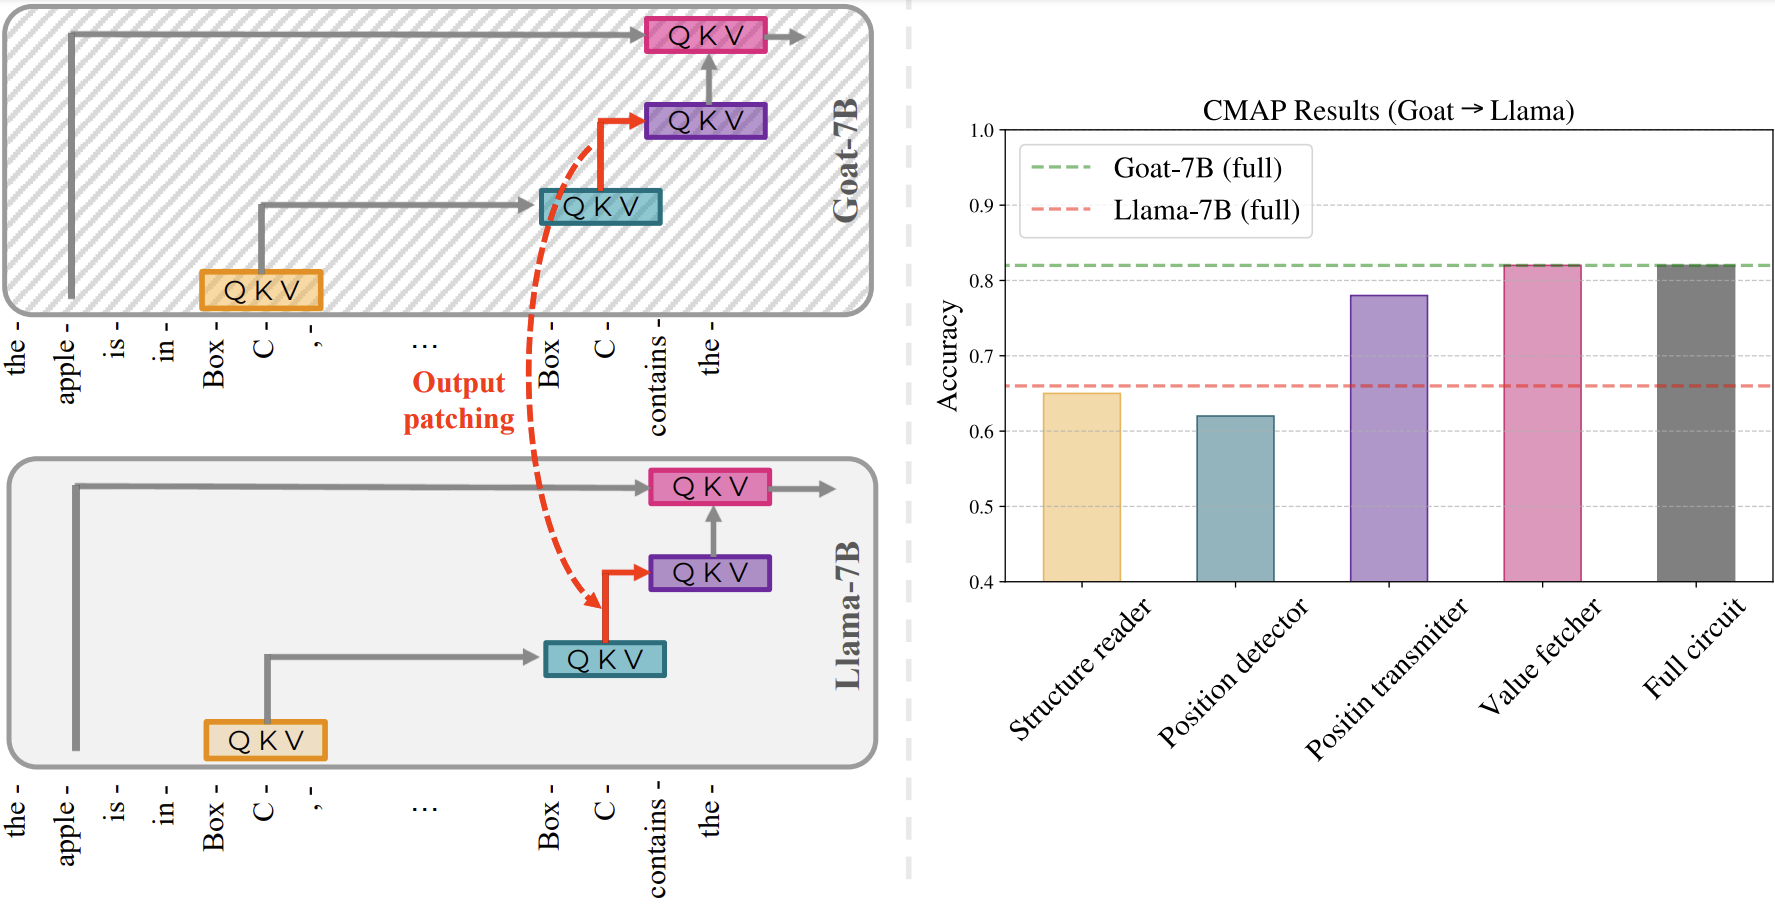
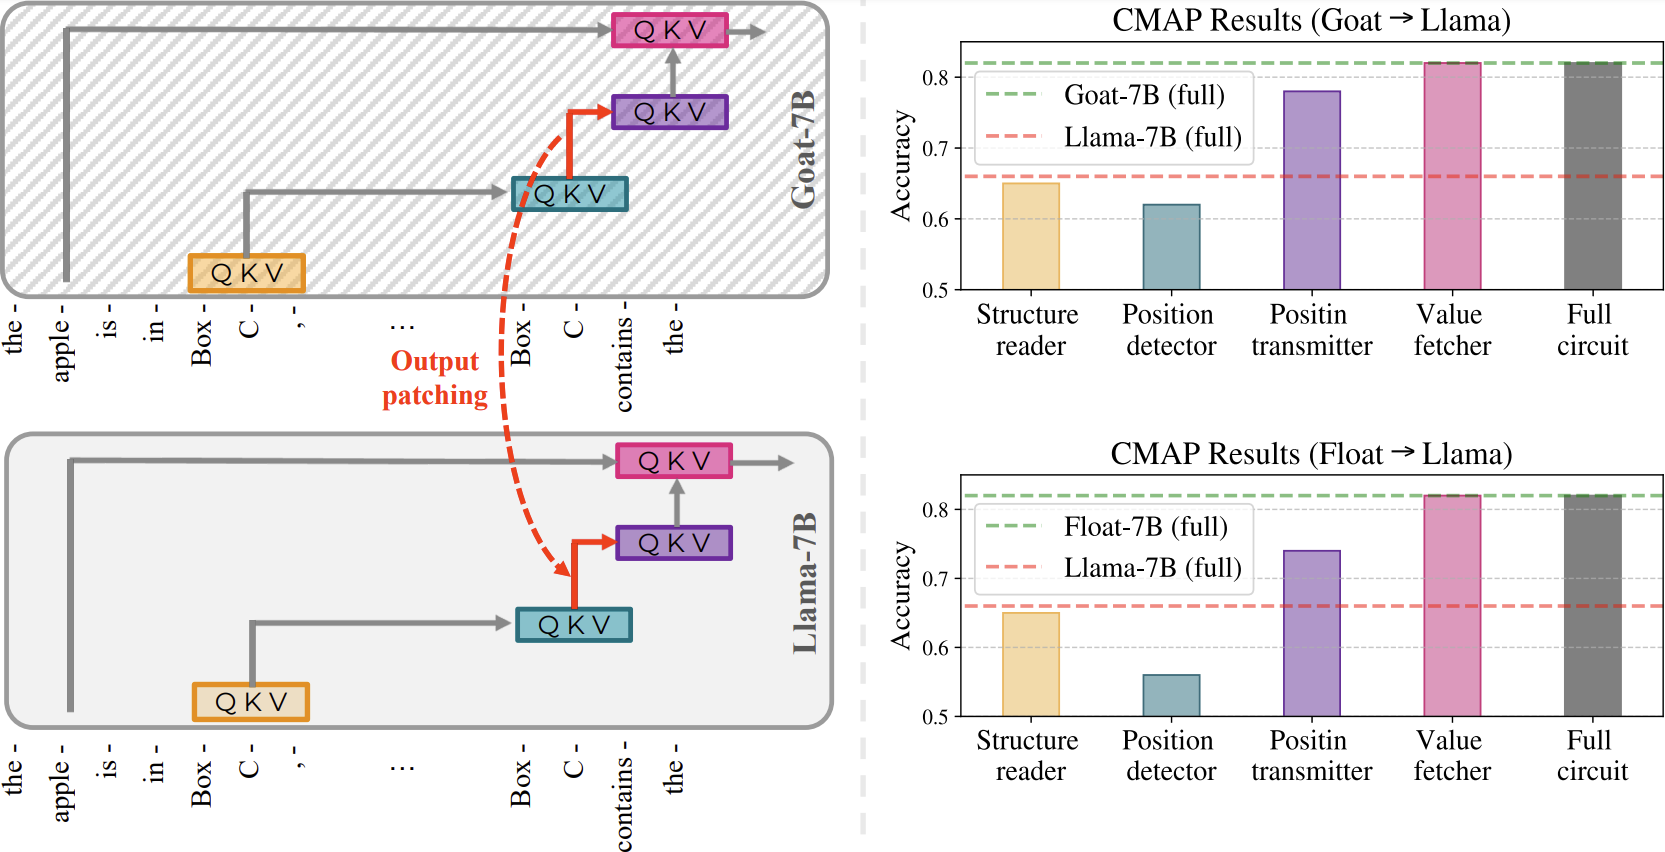
Updated content

Changed region(s): [[0.5309, 0.0, 0.9994, 0.9155], [0.0, 0.0, 0.4997, 1.0]]

diff --git a/index.html b/index.html
@@ -212,52 +212,62 @@
             Figure 2: <b>Circuit Functionality in Llama-7B, Vicuna-7B, Goat-7B, and FLoat-7B</b>. We use DCM
             to uncover the functionality of each subgroup of the circuit. Group A (pink) is mainly sensitive to the
             value desideratum, while groups B, C (purple, turquoise) are responsible for positional information.
-            We find group D insensitive to each of the three desideratum. Error bars indicate bootstrap variance.
+            We find group D insensitive to each of the three desideratum. Error bars indicate standard deviation.
           </figcaption>
         </figure>
         <p>
-          We found that the <b>functionality of the circuit components remains consistent across the models</b>.
-          Specifically,
-          Group A is mainly sensitive to the value desideratum, while Groups B and C are responsible for positional
-          information. We also observed that Group D is insensitive to each of the three desideratum.
+          We discovered that the <b>functionality of the circuit components remains consistent across the models</b>.
+          Specifically, Group A primarily encodes the value of the correct object, while Groups B and C are responsible
+          for encoding positional information. Additionally, we observed that Group D is insensitive to each of the
+          three functionalities.
         </p>
         <p>
           The observations that the same circuit is primarily responsible for performing entity tracking in both the
           base and fine-tuned models, and that the functionality of the circuit components remains consistent across the
           models, indicates that the <b>fine-tuned models leverage the same mechanism as the base model</b> to perform
-          entity tracking.
+          entity tracking. However, increased performance of fine-tuned models suggest that fine-tuning
+          enhances that existing mechanism.
         </p>
 
-        <h2>Why Does Goat-7B Perform Better?</h2>
+        <h2>Why Do Goat-7B and FLoat-7B Perform Better?</h2>
         <p>
-          To attribute the performance gap between Goat-7B and Llama-7B to a specific sub-mechanism, we propose a
+          To attribute the performance gap between fine-tuned models and Llama-7B to a specific sub-mechanism, we
+          propose a
           novel method <b>Cross-Model Activation Patching</b> (CMAP). Unlike naive activation patching which
           involves patching activations of the same model on different inputs, CMAP requires patching activations of the
           same components of different models on the same input. More specifically, we patch the output of heads in
           Goat-7B circuit from the Goat-7B model to Llama-7B model, to identify which step in Goat-7B model has improved
-          compared to Llama-7B.
+          compared to Llama-7B. Similarly, we perform the same patching process for heads in the FLoat-7B circuit.
         </p>
         <figure class="center_image" style="margin-top: 30px">
           <center><img src="images/paper/CMAP.png" style="width:100%; max-width:800px"></center>
           <figcaption>
-            Figure 3: <b>Why does Goat perform better?</b>
+            Figure 3: <b>Why do Goat-7B and FLoat-7B perform better?</b> We use CMAP to patch activations of the Goat-7B
+            and FLoat-7B circuit components, from Goat-7B and FLoat-7B to Llama-7B model respectively, to attribute the
+            performance improvement to a specific sub-mechanism used to perform entity tracking tasks. We patch the
+            output of the subset of heads in each group that are involved in the primary functionality. We find that
+            patching Value Fetcher heads can solely improve the performance of Llama-7B to that of Goat-7B and FLoat-7B.
+            Additionally, we also observe a significant performance boost when the output of Position Transmitter heads
+            is patched.
           </figcaption>
         </figure>
         <p>
-          We found that Value Fetcher Heads in Goat-7B encodes an enhanced representation of the correct object,
-          corroborating the results from previous experiment. Additionally, we observed that the Position Transmitter
-          Heads are transmitting augmented positional information to Value Fetcher Heads in Goat-7B. Both these factors
-          combiningly contribute to the improved performance of Goat-7B.
+          We note that the activations of fine-tuned models are compatible with those of the base model, despite the
+          possibility of using entirely different subspaces and/or norms to encode information. Furthermore, our
+          findings indicate that the Value Fetcher Heads in fine-tuned models encode an improved representation of the
+          correct object, consistent with the results from the previous experiment. Additionally, we observe that the
+          Position Transmitter Heads transmit augmented positional information to the Value Fetcher Heads.
         </p>
 
         <h2>Related Works</h2>
-        <p>Our work builds upon the existing research that aims to understand the entity tracking capabilities in
-          language models:
+        <p>Our work builds upon insights from previous research that has investigated large language models from various
+          other perspectives:
         </p>
+        <h3>Entity Tracking</h3>
         <p class="citation">
-          <a href="https://arxiv.org/pdf/2305.02363.pdf">
+          <a href="https://arxiv.org/pdf/2305.02363.pdf" target="_blank">
             <img src="images/related_works/entity_tracking.png" alt="Entity Tracking (Kim et. al 2023)">
-            Najoung Kim, Sebastian Schuster. Entity Tracking in Language Models. arXiv preprint (2023).
+            Najoung Kim, Sebastian Schuster. Entity Tracking in Language Models. arXiv preprint 2023.
           </a>
           <br>
           <b>Notes:</b> Investigated whether large language models can track the states of entities through a discourse,
@@ -267,19 +277,87 @@
         </p>
 
         <p class="citation">
-          <a href="https://arxiv.org/pdf/2106.00737.pdf">
-            <img src="images/related_works/entity_state.png" alt="BDAS (Li et. al 2021)">
+          <a href="https://arxiv.org/pdf/2106.00737.pdf" target="_blank">
+            <img src="images/related_works/entity_state.png" alt="Implicit Meaning (Li et. al 2021)">
             Belinda Z. Li, Maxwell Nye, Jacob Andreas. Implicit Representations of Meaning in Neural Language Models.
-            arXiv preprint (2021).
+            arXiv preprint 2021.
           </a>
           <br>
           <b>Notes:</b> Investigated whether neural language models implicitly encode representations of meaning without
           being explicitly trained to do so.
         </p>
 
-        <h2>How to cite</h2>
+        <h3>Transformer Interpretability</h3>
+        <p class="citation">
+          <a href="https://arxiv.org/pdf/2211.00593.pdf" target="_blank">
+            <img src="images/related_works/IOI.png" alt="Path Patching (Wang et. al 2022)">
+            Kevin Wang, Alexandre Variengien, Arthur Conmy, Buck Shlegeris, Jacob Steinhardt. Interpretability in the
+            Wild: a Circuit for Indirect Object Identification in GPT-2 small. arXiv preprint 2022.
+          </a>
+          <br>
+          <b>Notes:</b> Proposed Path Patching algorithm to reverse engineer the circuit responsible for performing
+          Indirect Object Identification (IOI) task in a GPT2-small.
+        </p>
 
-        <p>The preprint can be cited as follows.
+        <p class="citation">
+          <a href="https://arxiv.org/pdf/2307.03637.pdf" target="_blank">
+            <img src="images/related_works/DCM.png" alt="DCM (Davies et. al 2023)">
+            Xander Davies, Max Nadeau, Nikhil Prakash, Tamar Rott Shaham, David Bau. Discovering Variable Binding
+            Circuitry with Desiderata. arXiv preprint 2023.
+          </a>
+          <br>
+          <b>Notes:</b> Proposed Desiderata-based Component Masking (DCM) method to localize components responsible for
+          variable binding in Llama-13B.
+        </p>
+
+        <p class="citation">
+          <a href="https://transformer-circuits.pub/2021/framework/index.html" target="_blank">
+            <img src="images/related_works/elhage-2021.png" alt="Transformer_circuits (Elhage et. al 2021)">
+            Nelson Elhage, Neel Nanda, Catherine Olsson, Tom Henighan, Nicholas Joseph, Ben Mann, Amanda Askell, Yuntao
+            Bai, Anna Chen, Tom Conerly, Nova DasSarma, Dawn Drain, Deep Ganguli, Zac Hatfield-Dodds, Danny Hernandez,
+            Andy Jones, Jackson Kernion, Liane Lovitt, Kamal Ndousse, Dario Amodei, Tom Brown, Jack Clark, Jared Kaplan,
+            Sam McCandlish, Chris Olah. A Mathematical Framework for Transformer Circuits. Anthropic 2021.
+          </a>
+          <br>
+          <b>Notes:</b> Analyzes internal mechanisms of transformer components, developing mathematical tools for
+          understanding patterns of computations. Observes information-copying behavior in self-attention and implicates
+          it in the strong performance of transformers.
+        </p>
+
+        <h2>Complimentary Works</h2>
+        <p class="citation">
+          <a href="https://arxiv.org/pdf/2311.12786.pdf" target="_blank">
+            <img src="images/related_works/finetuning.png" alt="Finetuning (Jain et. al 2023)">
+            Samyak Jain, Robert Kirk, Ekdeep Singh Lubana, Robert P. Dick, Hidenori Tanaka, Edward Grefenstette, Tim
+            Rocktäschel, David Scott Krueger. Mechanistically analyzing the effects of fine-tuning on procedurally
+            defined tasks. arXiv preprint (2023).
+          </a>
+          <br>
+          <b>Notes:</b> Investigated the impact of fine-tuning on LLMs from a mechanistic perspective. Although their
+          main
+          finding, suggesting that fine-tuning minimally alters pretrained capabilities, resonates with our result
+          of enhancing existing mechanisms through fine-tuning, their study involved controlled experiments
+          utilizing transformer models created using the <i>tracr library</i>. In contrast, our
+          experiments focus on established LLMs such as Llama-7B and their fine-tuned variants, specifically
+          in the context of entity tracking tasks, which we believe better represent real-world language tasks.
+        </p>
+
+        <p class="citation">
+          <a href="https://arxiv.org/pdf/2310.17191.pdf" target="_blank">
+            <img src="images/related_works/binding.png" alt="Binding (Feng et. al 2023)">
+            Jiahai Feng, Jacob Steinhardt. How do Language Models Bind Entities in Context? arXiv preprint (2023).
+          </a>
+          <br>
+          <b>Notes:</b> Investigated how LLMs keep track of various properties associated with an entity. Their findings
+          indicated that models generate binding ID vectors corresponding to entities and attributes. We find it
+          intriguing to further investigate the interaction between these binding ID vectors and the entity tracking
+          circuit we have identified.
+        </p>
+
+        <h2>How to cite</h2>
+        TBD
+
+        <!-- <p>The preprint can be cited as follows.
         </p>
 
         <div class="card">
@@ -302,7 +380,7 @@
 }
 </pre>
           </div>
-        </div>
+        </div> -->
         </p>
 
       </div>
